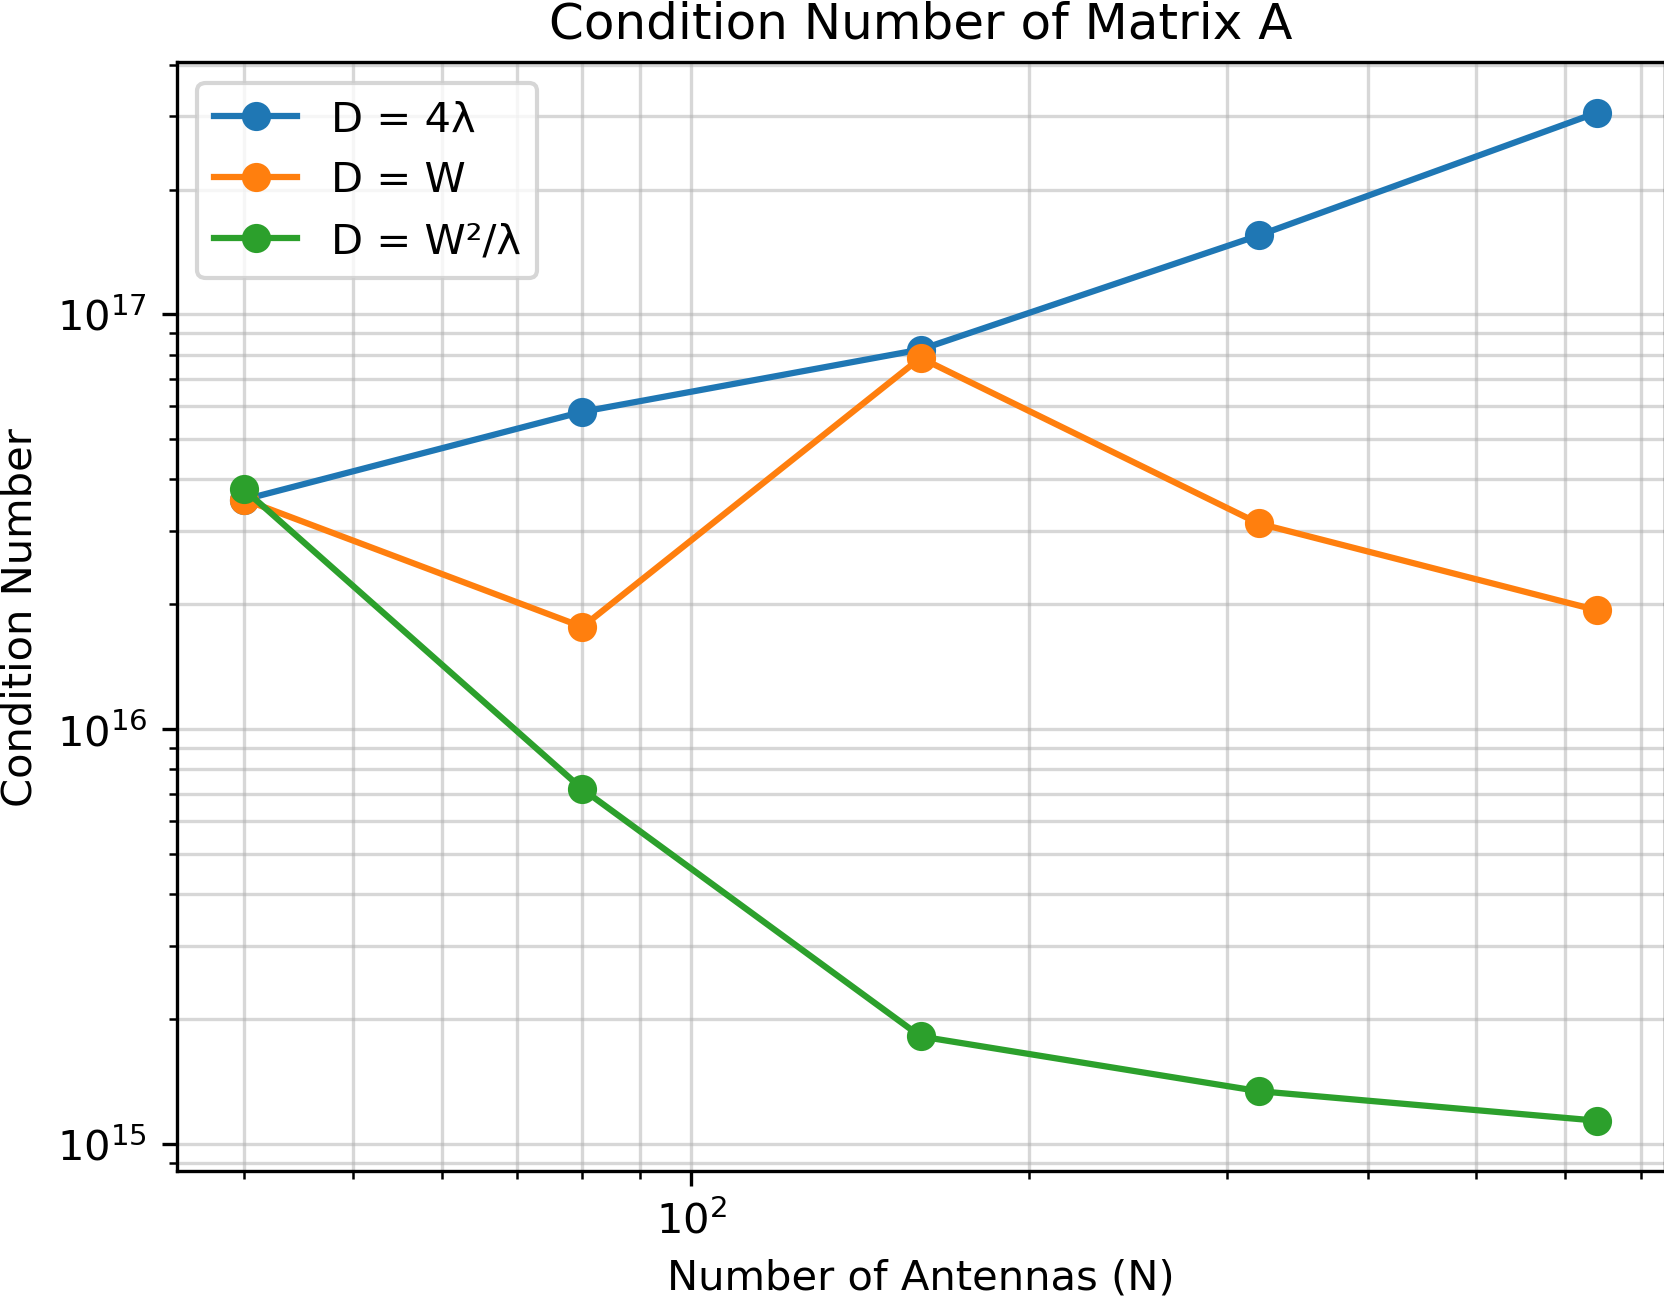
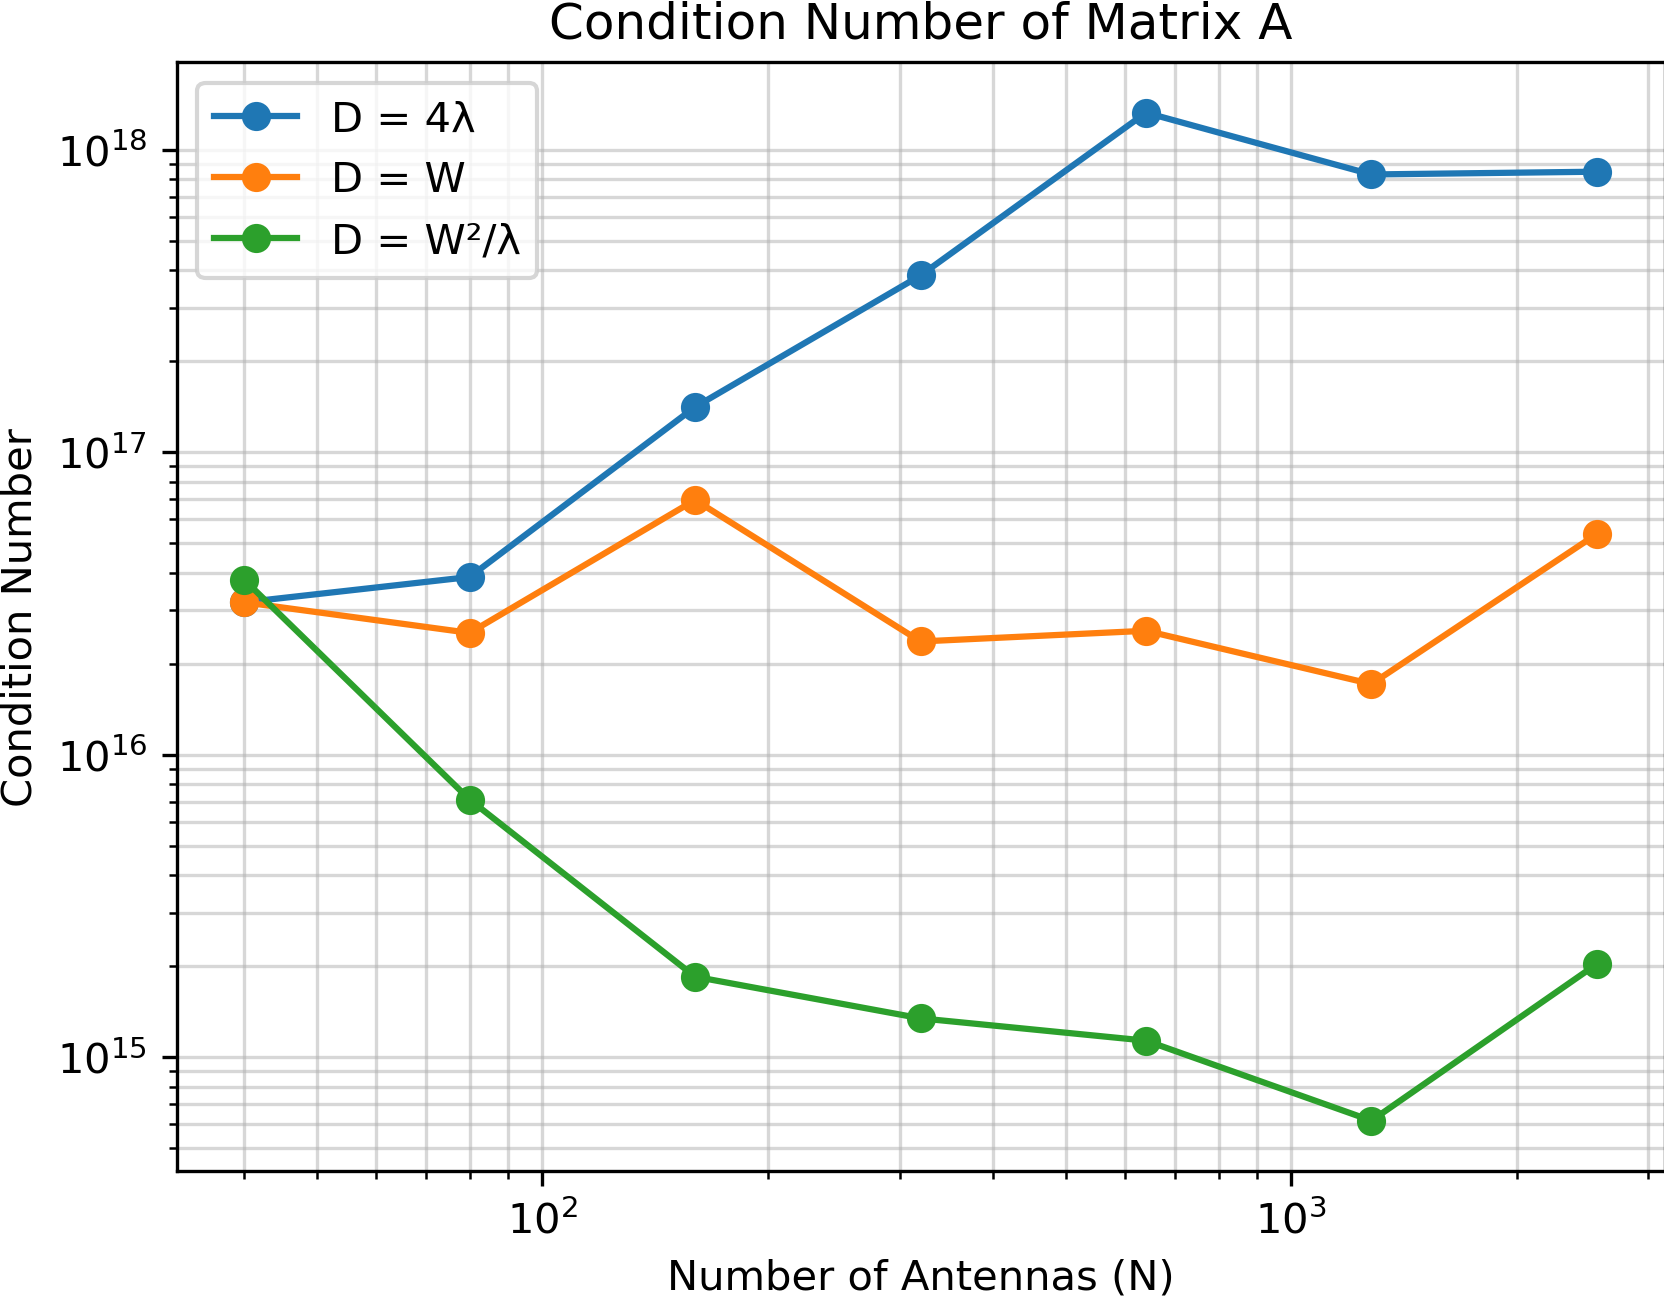
expand to more antennas

diff --git a/part1.py b/part1.py
@@ -5,8 +5,7 @@ from time import time
 matplotlib.use('TkAgg')
 
 
-def construct_A(lambda_, theta, W, D):
-    delta = lambda_/10
+def construct_A(lambda_, theta, delta, W, D):
     k = 2 * np.pi/lambda_
     N = int(W/delta)
 
@@ -27,8 +26,8 @@ def construct_A(lambda_, theta, W, D):
     return A
 
 
-def compute_rank(S, threshold):
-    return np.sum(S > threshold * S[0])
+def compute_rank(s_values, threshold):
+    return np.sum(s_values > threshold)
 
 
 def compute_SVD(A):
@@ -47,12 +46,14 @@ if __name__ == '__main__':
     for section in sections:
         if section == 'a':
             lambda_ = 1
+            delta = lambda_ / 10
             theta = np.pi / 2
             W = 4 * lambda_
             alpha = 1
             D = alpha * W
             A = construct_A(lambda_=lambda_,
                             theta=theta,
+                            delta=delta,
                             W=W,
                             D=D)
 
@@ -82,9 +83,10 @@ if __name__ == '__main__':
 
         if section == 'b':
             lambda_ = 1
+            delta = lambda_ / 10
             theta = np.pi / 2
-            N_values = [40, 80, 160, 320, 640]
-            W_values = [4 * lambda_ * (2 ** i) for i in range(len(N_values))]
+            W_values = [4 * lambda_ * (2 ** i) for i in range(7)]
+            N_values = [int(w/delta) for w in W_values]
 
             D_cases = {
                 'D = 4λ': lambda W: 4 * lambda_,
@@ -99,6 +101,7 @@ if __name__ == '__main__':
                     D = D_func(W)
                     A = construct_A(lambda_=lambda_,
                                     theta=theta,
+                                    delta=delta,
                                     W=W,
                                     D=D)
                     s_values, svd_time, ranks, condition_number = compute_SVD(A)
@@ -123,6 +126,7 @@ if __name__ == '__main__':
             plt.grid(True, which="both", ls="-", alpha=0.5)
             plt.savefig('part1_b_svd_complexity.png', dpi=300, bbox_inches='tight', pad_inches=0)
             plt.show()
+            plt.close()
 
             for case, data in results.items():
                 plt.semilogx(data['N'], [r[0] for r in data['ranks']], 'o-', label=f'{case}, τ=1e-2')
@@ -136,6 +140,7 @@ if __name__ == '__main__':
             plt.grid(True, which="both", ls="-", alpha=0.5)
             plt.savefig('part1_b_rank.png', dpi=300, bbox_inches='tight', pad_inches=0)
             plt.show()
+            plt.close()
 
             for case, data in results.items():
                 plt.loglog(data['N'], data['condition'], 'o-', label=case)
